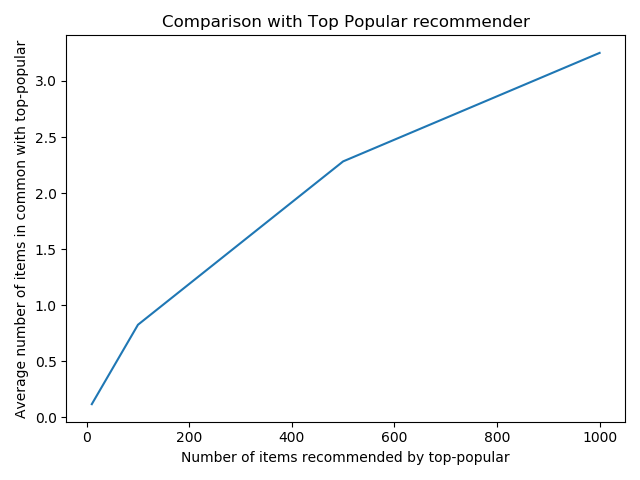
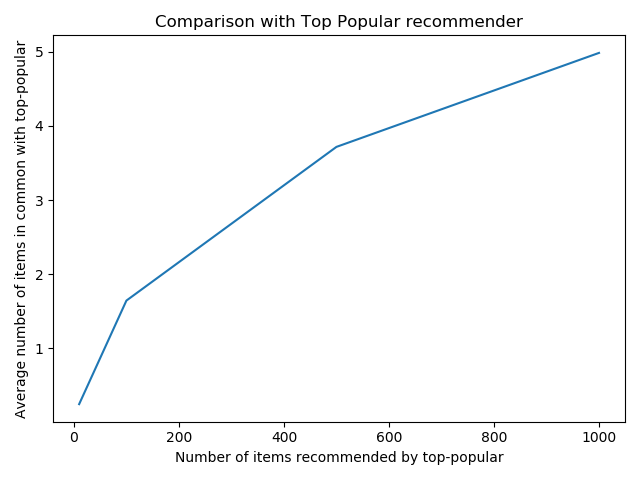
Fix item cf graphics tuning

diff --git a/scripts/tuning_result_exploration.py b/scripts/tuning_result_exploration.py
@@ -2,7 +2,7 @@ from src.model_management.tuning_result_exploration import *
 from src.data_management.RecSys2019Reader import RecSys2019Reader
 from src.data_management.New_DataSplitter_leave_k_out import *
 from src.data_management.DataPreprocessing import *
-from course_lib.KNN.UserKNNCFRecommender import *
+from course_lib.KNN.ItemKNNCFRecommender import *
 
 if __name__ == '__main__':
     data_reader = RecSys2019Reader()
@@ -12,6 +12,6 @@ if __name__ == '__main__':
     data_reader.load_data()
     URM_train, URM_test = data_reader.get_holdout_split()
 
-    path = "../report/hp_tuning/user_cf/Nov19_14-58-37_k_out_value_3/"
-    explore_tuning_result(path, UserKNNCFRecommender, URM_train, URM_test, save_on_file=True,
-                          output_path_folder="../report/hp_tuning/user_cf/Nov19_14-58-37_k_out_value_3/graphics/")
+    path = "../report/hp_tuning/item_cf/Nov19_14-39-56_k_out_value_3/"
+    explore_tuning_result(path, ItemKNNCFRecommender, URM_train, URM_test, save_on_file=True,
+                          output_path_folder="")

diff --git a/src/model_management/tuning_result_exploration.py b/src/model_management/tuning_result_exploration.py
@@ -2,6 +2,7 @@ from src.model_management.model_result_reader import *
 from src.plots.plot_evaluation_helper import *
 from src.model_management.evaluator import *
 import numpy as np
+from course_lib.Base.Evaluation.Evaluator import EvaluatorHoldout
 
 
 def explore_tuning_result(path, recommender_class, URM_train, URM_test,
